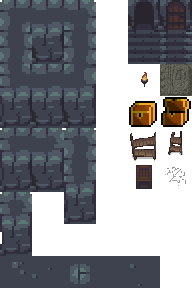
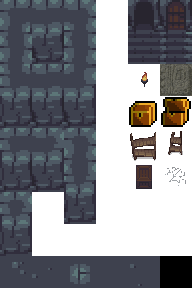
chore size canvas => modified the size of the canvas to work with the new tile size

Changed region(s): [[0.8125, 0.875, 1.0, 1.0], [0.3125, 0.4375, 0.3438, 0.4688], [0.0, 0.8125, 0.0312, 0.8438]]

diff --git a/src/main.ts b/src/main.ts
@@ -21,7 +21,7 @@ import { createCanvasLayer } from "./graphicContext/canvasLayer";
 import { getWarFogSprite } from "./graphicContext/contexts/warFogContext";
 
 // Created canvas layers and their contexts
-const { layer, contexts } = createCanvasLayer(1200, 912);
+const { layer, contexts } = createCanvasLayer(1280, 912);
 
 // Created a global render function that will be called every frame
 let ctxBackground: CanvasRenderingContext2D;
@@ -42,7 +42,7 @@ export function markBackgroundDirty() {
 function renderBackground() {
   if (!backgroundDirty) return;
 
-  ctxBackground.clearRect(0, 0, 1200, 912);
+  ctxBackground.clearRect(0, 0, 1280, 912);
   getBackgroundSprite(ctxBackground, map, GridSize, GridSizeWidth, TileSize);
 
   backgroundDirty = false;
@@ -50,13 +50,13 @@ function renderBackground() {
 
 /// Render the entities layer (chests, doors, stairs) - needs to be called every frame because of dynamic elements like doors opening
 function renderEntities() {
-  ctxEntities.clearRect(0, 0, 1200, 912);
+  ctxEntities.clearRect(0, 0, 1280, 912);
   getEntitiesSprite(ctxEntities, map, GridSize, GridSizeWidth, TileSize);
 }
 
 // Render the characters layer (player, enemies, projectiles) - needs to be called every frame for movement and animations
 function renderCharacters() {
-  ctxCharacters.clearRect(0, 0, 1200, 912);
+  ctxCharacters.clearRect(0, 0, 1280, 912);
 
   // Draw player
   getPlayerSprite(ctxCharacters, statePlayer, TileSize);
@@ -69,13 +69,13 @@ function renderCharacters() {
 }
 
 function renderWarFog() {
-  ctxWarFog.clearRect(0, 0, 1200, 912);
+  ctxWarFog.clearRect(0, 0, 1280, 912);
   getWarFogSprite(ctxWarFog, GridSize, GridSizeWidth, TileSize);
 }
 
 // Render the UI layer (HUD, health bars, etc.) - needs to be called every frame for dynamic UI updates
 function renderUI() {
-  ctxUI.clearRect(0, 0, 1200, 912);
+  ctxUI.clearRect(0, 0, 1280, 912);
   getHudSprite(ctxUI);
 }
 

diff --git a/src/graphicContext/all_sprite/background_sprite/walls.ts b/src/graphicContext/all_sprite/background_sprite/walls.ts
@@ -94,8 +94,8 @@ export const wallSprites: Record<string, SpriteConfig> = {
   },
   wall: {
     sheetSrc: "/wall_props_32px.png",
-    x: 96,
-    y: 0,
+    x: 160,
+    y: 256,
     width: 32,
     height: 32,
   },
